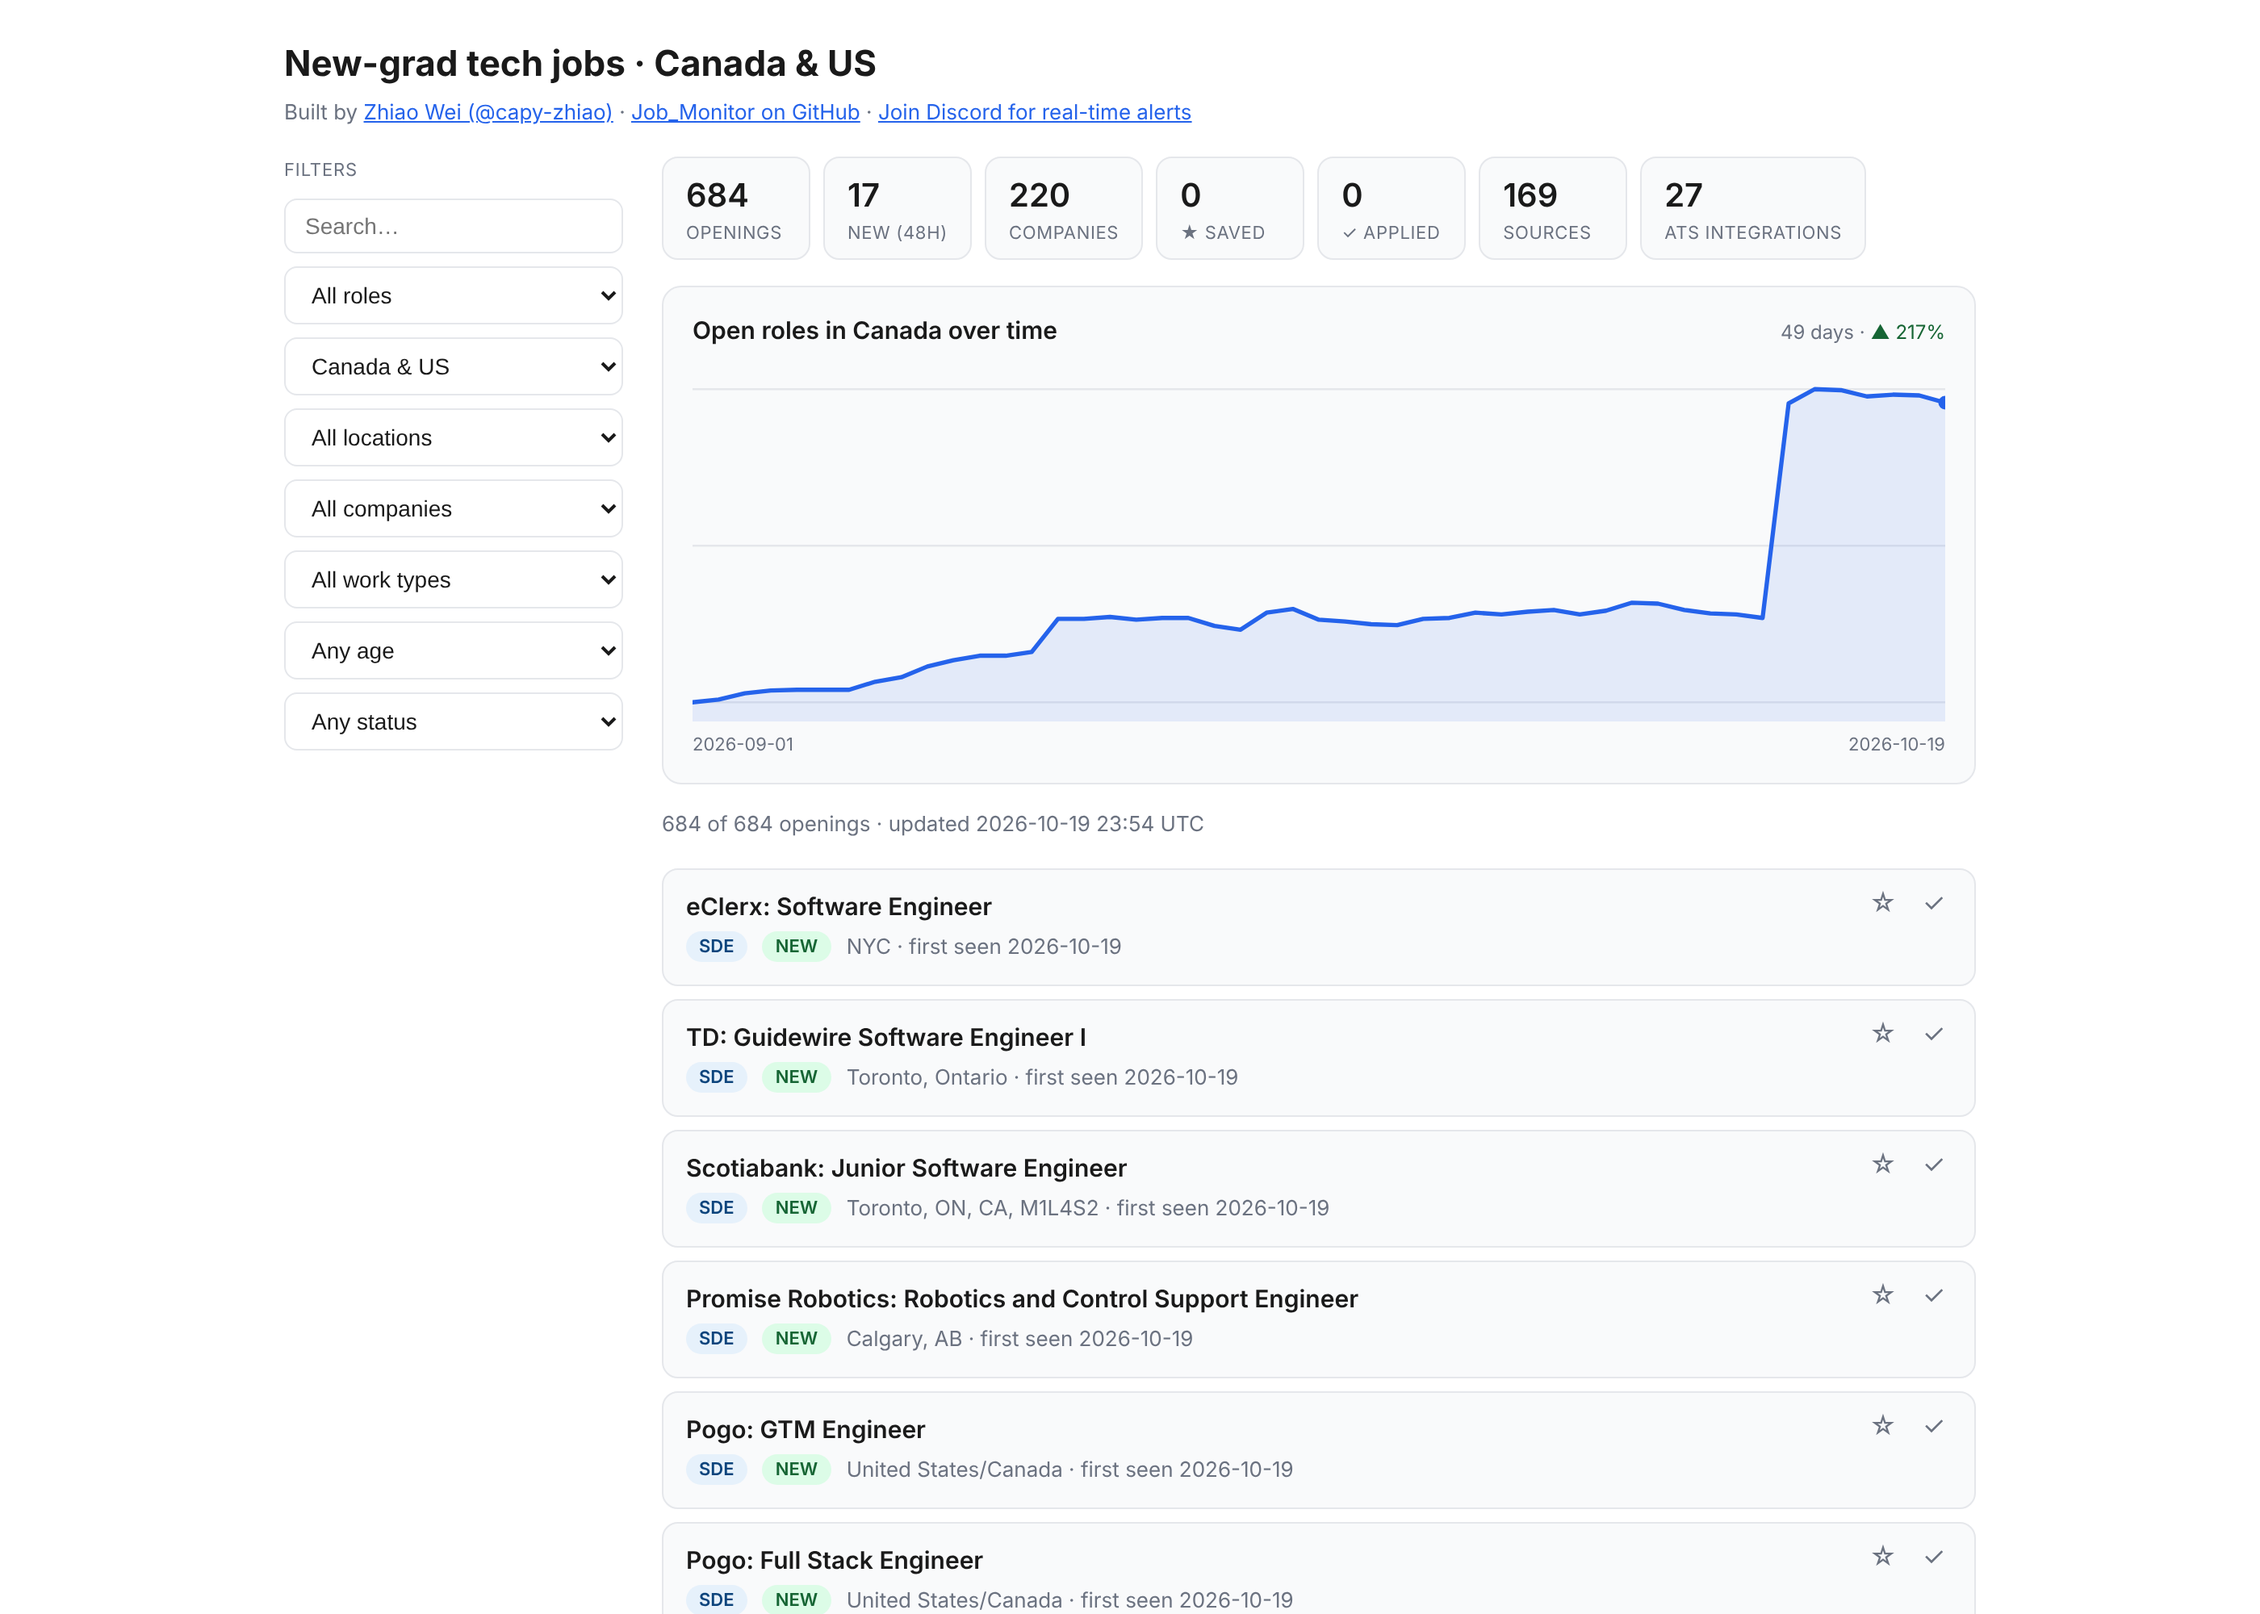
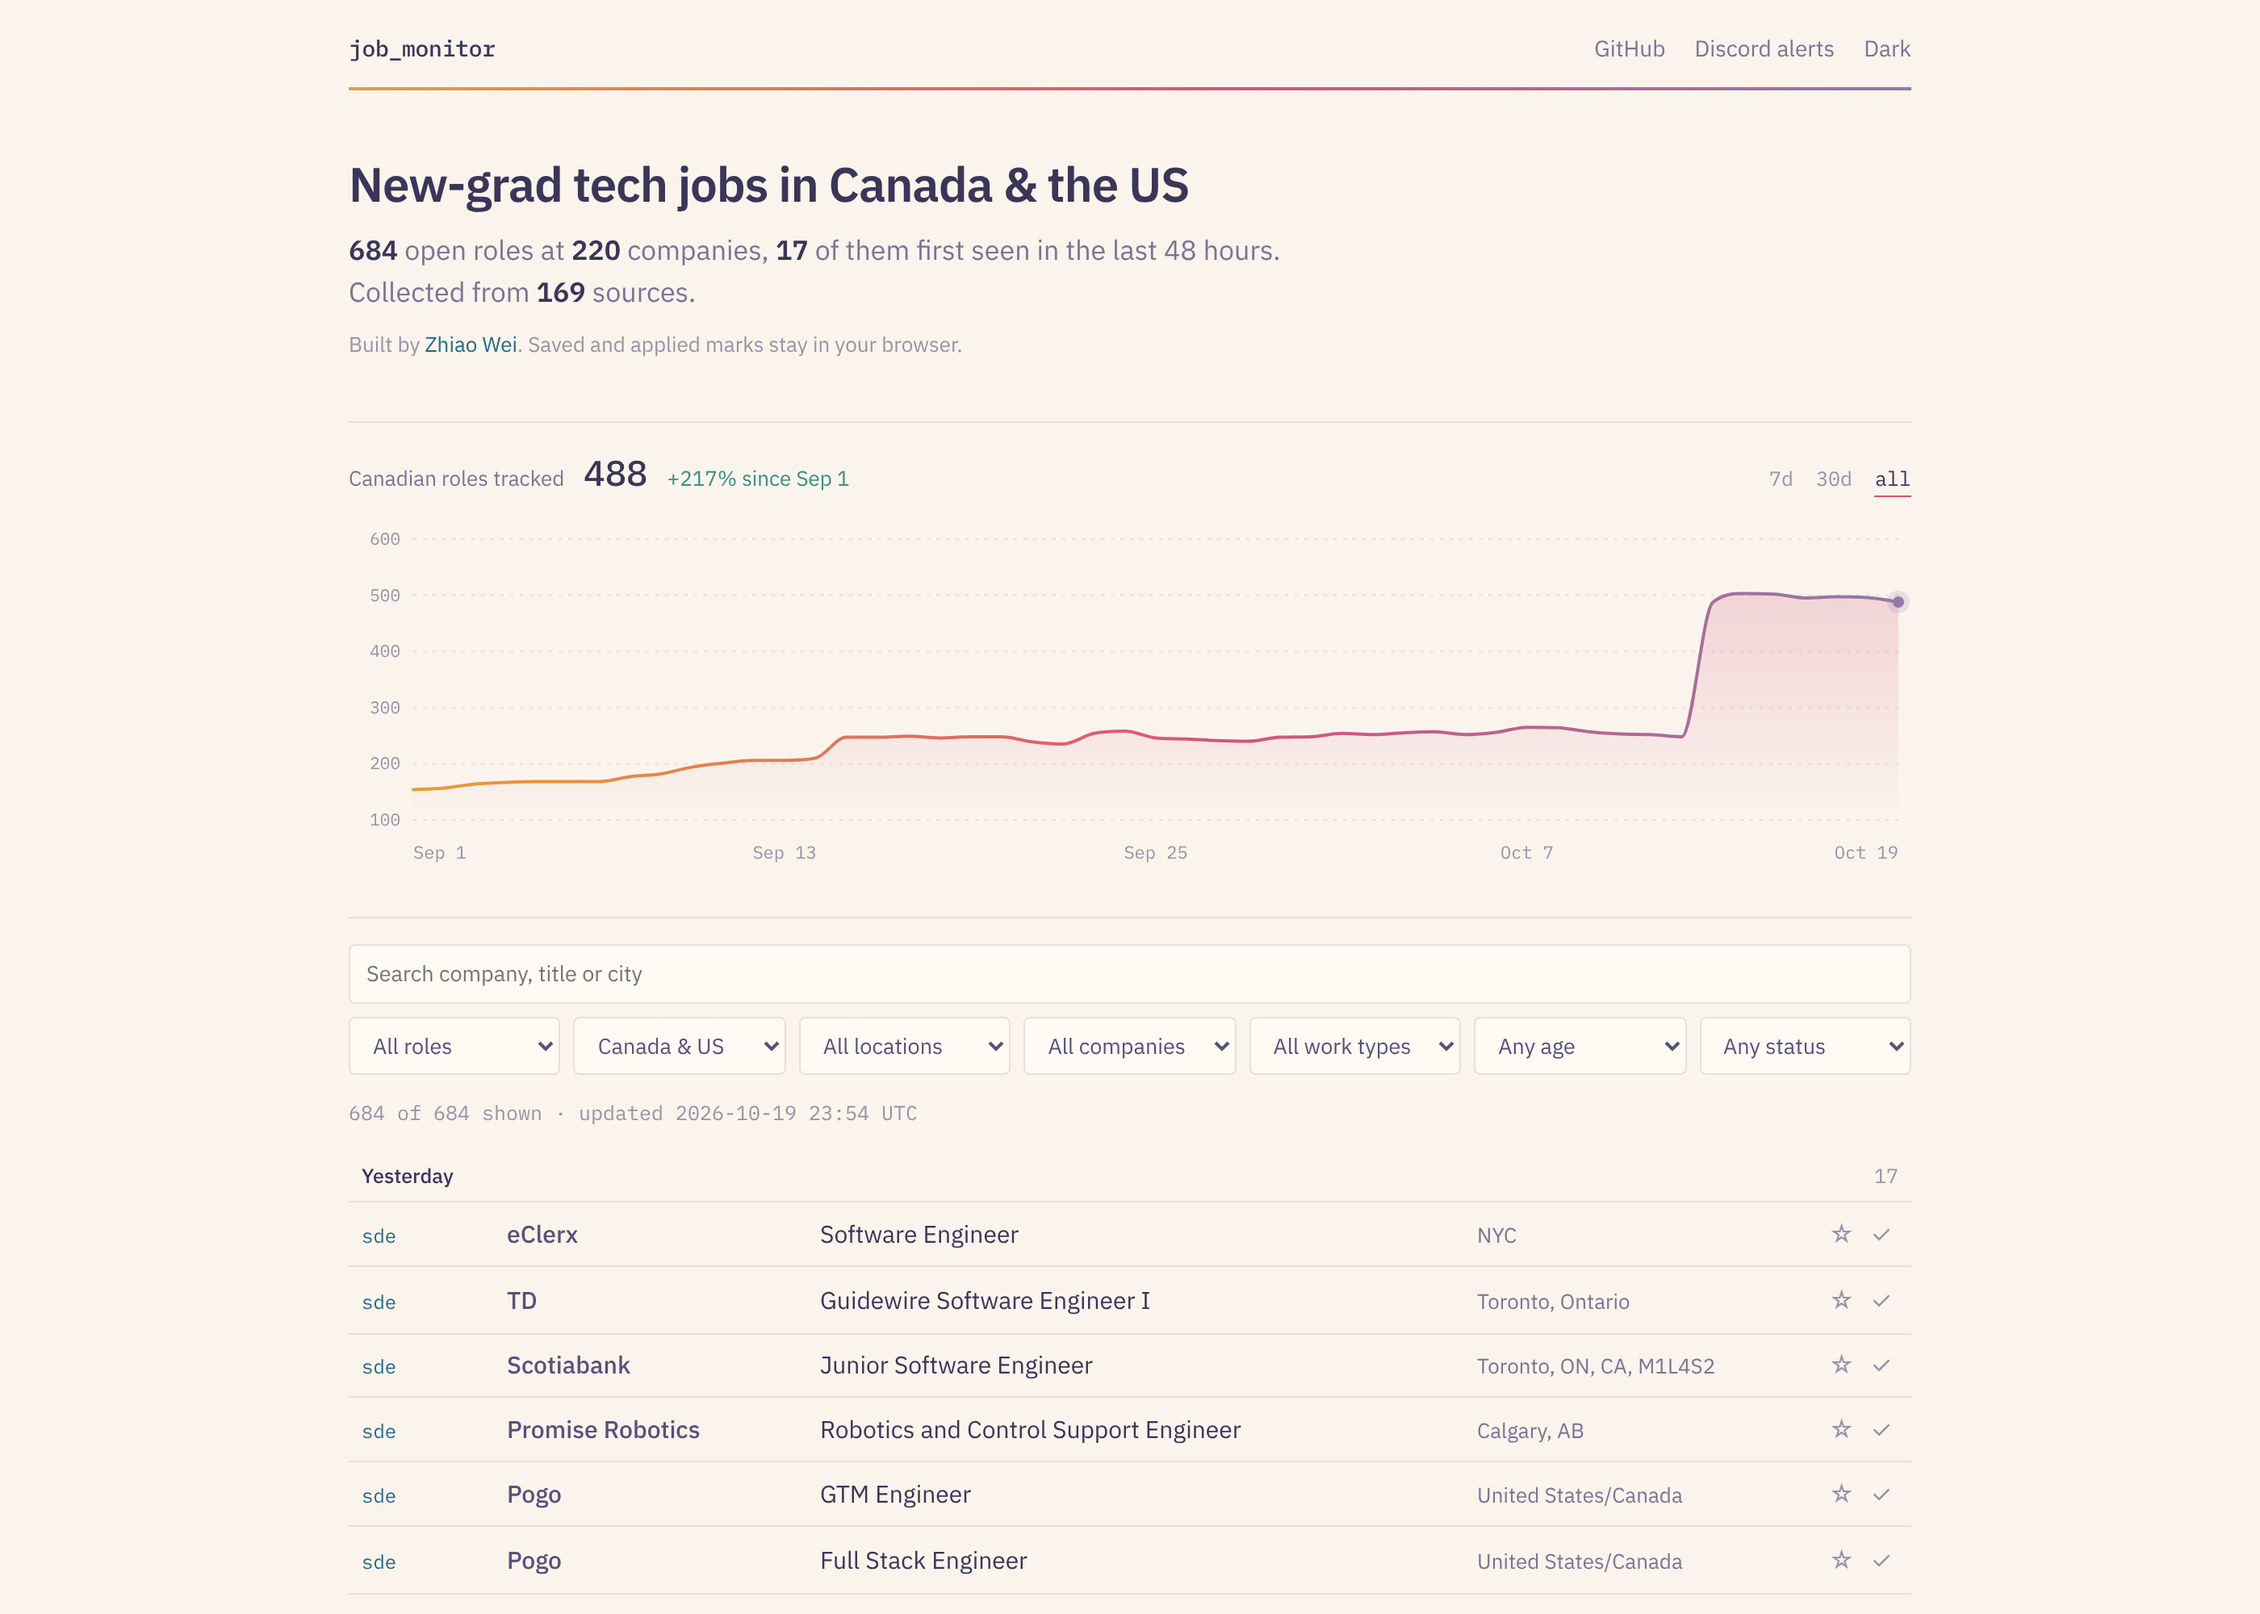
Job Monitor: screenshots and caption for the redesigned dashboard
The dashboard is now a typographic page (Job_Monitor ed6aea9): a
one-line summary, the Canadian-roles trend, and filters above a list
grouped by first-seen day. Retaken at the same 2x size from the
current docs/, with IBM Plex loaded locally.

Claude-Session: https://claude.ai/code/session_01H6JoBrR1RSqRdoPetduxNY

diff --git a/_projects/job_monitor.md b/_projects/job_monitor.md
@@ -16,7 +16,7 @@ links:
 
 {% include figure.liquid loading="eager" path="assets/img/projects/job_monitor.png" title="Job Monitor dashboard" class="img-fluid rounded z-depth-1" %}
 
-<div class="caption">The live dashboard: filters on the left, open roles in Canada over time, newest postings first.</div>
+<div class="caption">The live dashboard: a one-line summary, Canadian roles tracked over time, then search and filters above the newest postings, grouped by the day they were first seen.</div>
 
 ### The problem
 
